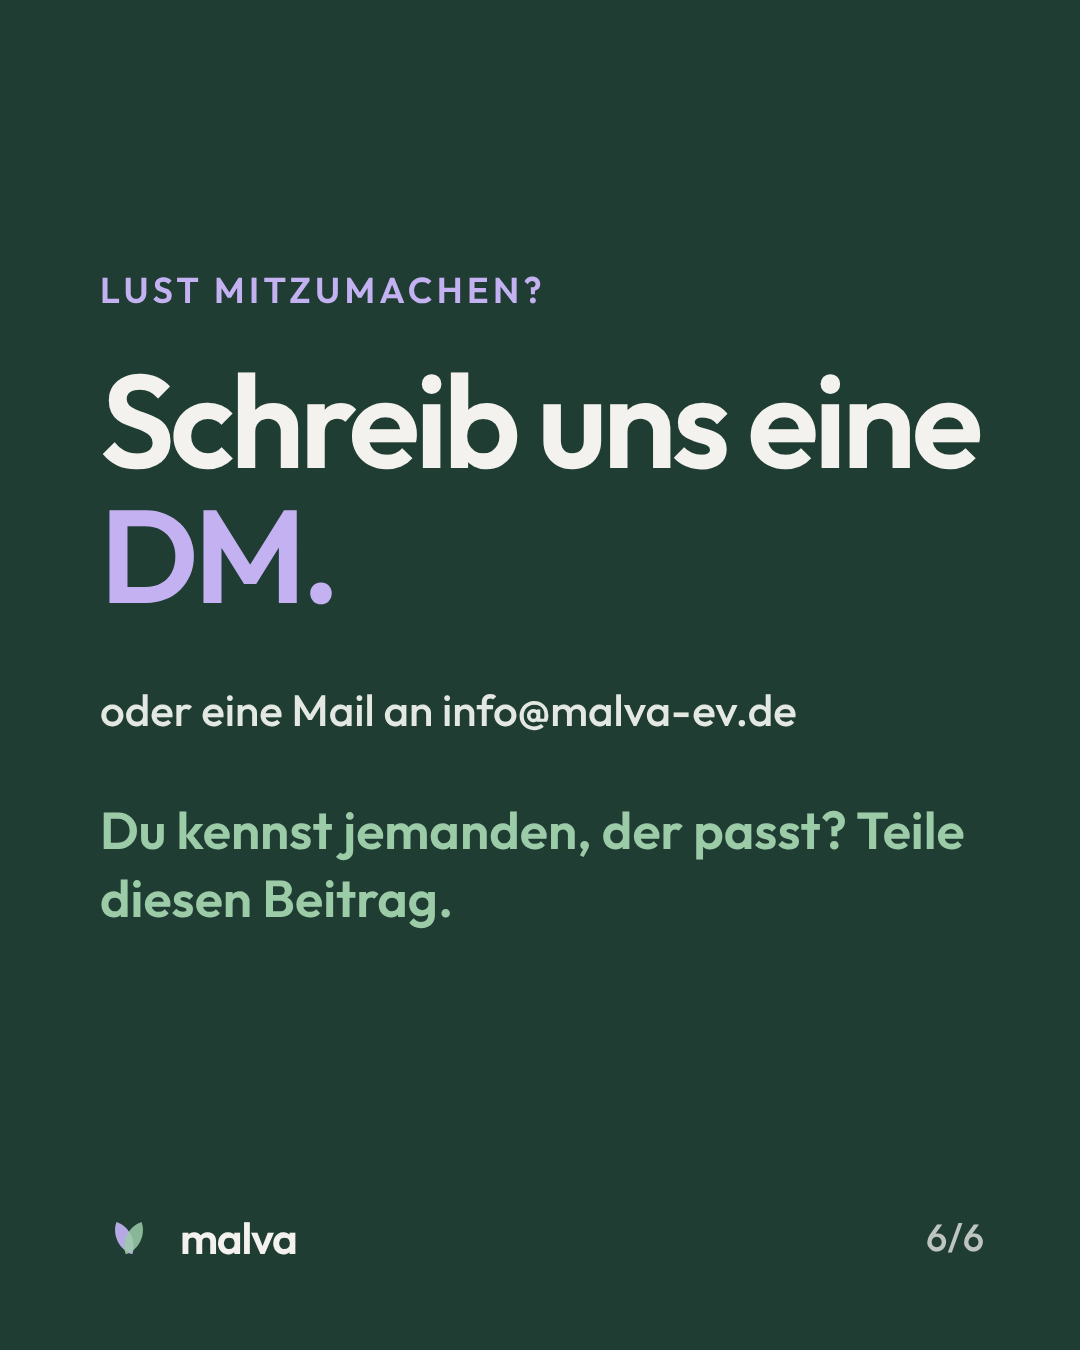
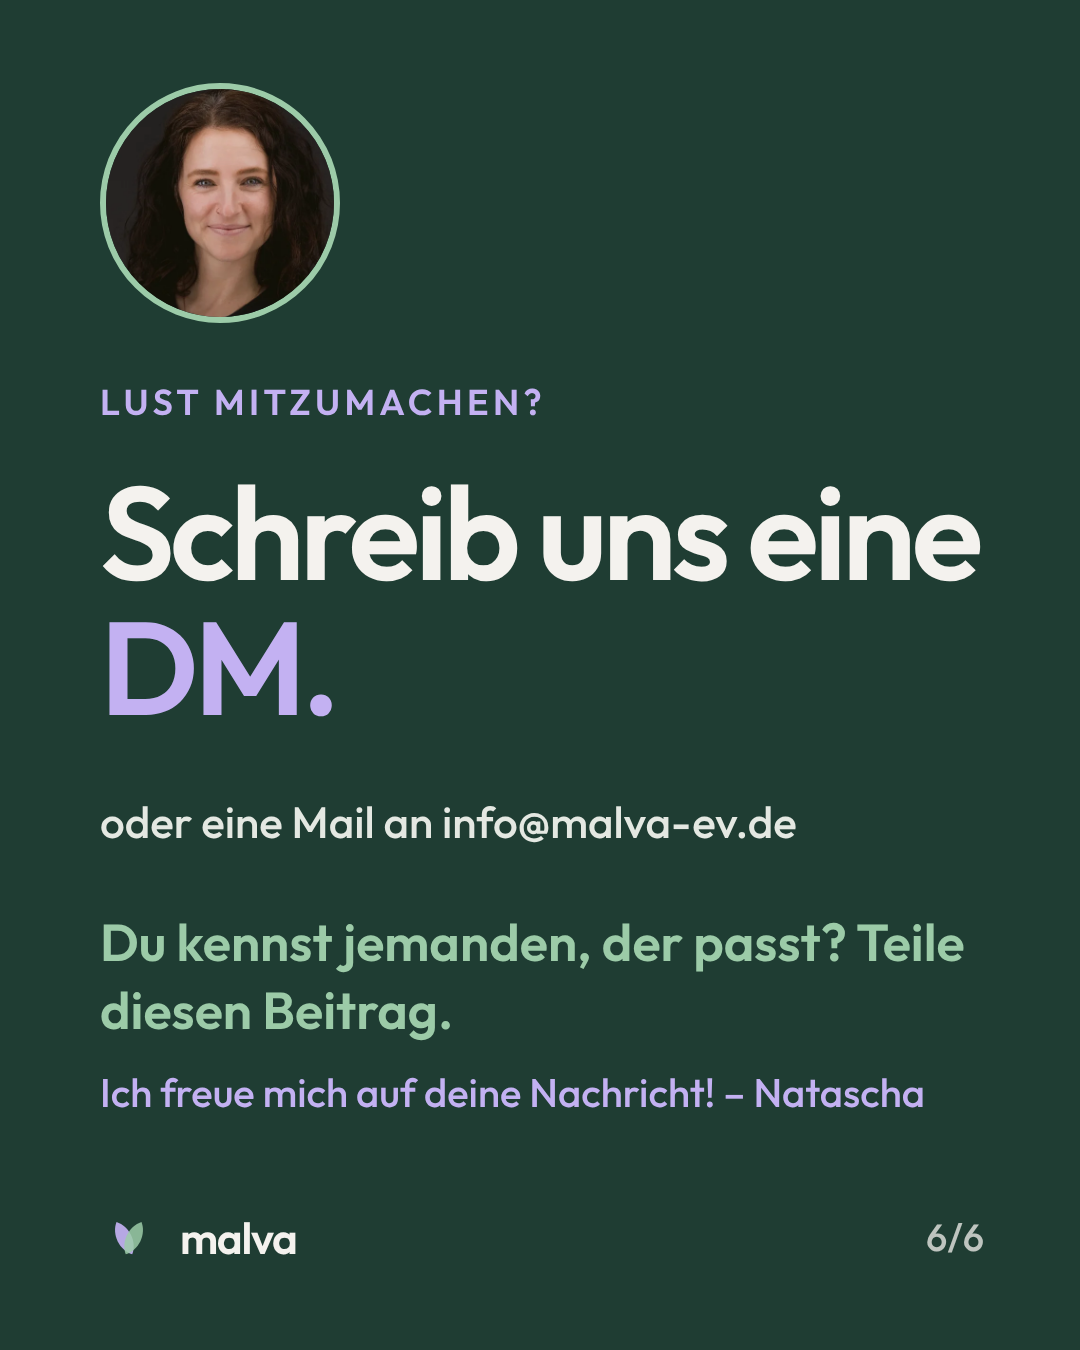
Partner-Post: rundes Farbfoto und persönlicher Gruß auf letzter Slide
Claude-Session: https://claude.ai/code/session_015uEer6M6e5oi78ZvJtGjnt

diff --git a/malva-website/instagram/partner-gesucht/slides.html b/malva-website/instagram/partner-gesucht/slides.html
@@ -83,10 +83,12 @@ h2{font-weight:600;font-size:82px;line-height:1.12;letter-spacing:-.025em}
 </section>
 
 <section class="slide dark" id="s6">
+  <img class="photo" src="natascha-helbig-bunt-rund.webp" alt="">
   <p class="kicker">Lust mitzumachen?</p>
   <h1 style="font-size:132px">Schreib uns eine <span class="hl">DM.</span></h1>
   <p class="body">oder eine Mail an info@malva-ev.de</p>
   <p class="sage">Du kennst jemanden, der passt? Teile diesen Beitrag.</p>
+  <p class="sig">Ich freue mich auf deine Nachricht! – Natascha</p>
   <div class="foot"><div class="brand" data-mark="d"><span>malva</span></div><span class="num">6/6</span></div>
 </section>
 
